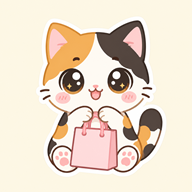
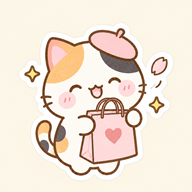
마스코트를 토끼 시안 스타일의 삼색 고양이로, 비밀번호 최소 4자
힉스필드 원본 그림은 design/higgsfield/에 두고 레포에는 올리지 않는다.

diff --git a/sw.js b/sw.js
@@ -1,6 +1,6 @@
 // 오프라인용: 앱 파일을 캐시에 두고, 인터넷이 없으면 캐시에서 연다.
 // 상품·사진은 IndexedDB에 있어서 여기서 따로 캐시하지 않는다.
-const VERSION = 'v4';
+const VERSION = 'v5';
 const CACHE = 'japan-shopping-' + VERSION;
 const FILES = [
   './', 'index.html', 'css/app.css', 'js/app.js', 'js/db.js', 'js/photo.js', 'js/sync.js',

diff --git a/CLAUDE.md b/CLAUDE.md
@@ -10,7 +10,7 @@
 - `js/sync.js` 구글 시트 동기화 클라이언트(앱스 스크립트 웹 앱, text/plain POST). updatedAt 늦은 쪽이 이김, 삭제는 deleted 표시
 - `apps-script/Code.gs` 시트에 붙는 앱스 스크립트(시트 탭: 상품/사진/설정, 사진 파일은 Drive «일본쇼핑 사진»). onEdit가 시트 직접 수정 시 updatedAt 갱신
 - `data/products.json` 처음 넣는 상품(X 북마크에서 고른 32개). 새 id를 더하면 다음에 열 때 그것만 추가됨
-- `sw.js` 서비스 워커(앱 파일 캐시, 네트워크 먼저), `manifest.webmanifest`, `icons/`(마스코트), `images/mascot-320.png`(힉스필드로 만든 삼색 고양이, `mascot-dizzy-320.png`는 예산 넘었을 때 눈 돌아간 고양이), `fonts/Jua-Regular.ttf`(OFL)
+- `sw.js` 서비스 워커(앱 파일 캐시, 네트워크 먼저), `manifest.webmanifest`, `icons/`(마스코트), `images/mascot-320.png`(힉스필드로 만든 삼색 고양이, 토끼 시안 스타일. `mascot-dizzy-320.png`는 예산 넘었을 때 눈 돌아간 고양이). 힉스필드 원본은 `design/higgsfield/`(gitignore, OneDrive에만), `fonts/Jua-Regular.ttf`(OFL)
 - `preview.html` 처음 디자인 시안(참고용)
 
 ## 규칙
